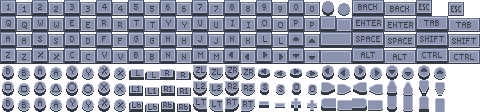
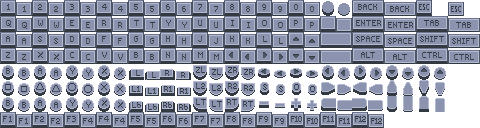
(Adventure) Exit To World Map
(Adventure Mode)
Added a HUD button to any city / dungeon view which pops up a dialog to exit the map. Initially bound to F4 / L2.

Button is visible on Desktop Landscape mode above Deck button in space vacated by Life / Mana / Gold which do not display in these settings.

Button is "present" on other layouts, but hidden off screen, with final positioning left to those who better know how to test and balance those layouts. Keyboard bindings are still functional in these views.

New sprites added for F1-12 and "Exit" button.

diff --git a/forge-gui-mobile/src/forge/adventure/stage/GameHUD.java b/forge-gui-mobile/src/forge/adventure/stage/GameHUD.java
@@ -11,23 +11,24 @@ import com.badlogic.gdx.scenes.scene2d.InputEvent;
 import com.badlogic.gdx.scenes.scene2d.Stage;
 import com.badlogic.gdx.scenes.scene2d.actions.Actions;
 import com.badlogic.gdx.scenes.scene2d.ui.Button;
+import com.badlogic.gdx.scenes.scene2d.ui.Dialog;
 import com.badlogic.gdx.scenes.scene2d.ui.Image;
 import com.badlogic.gdx.scenes.scene2d.ui.Touchpad;
 import com.badlogic.gdx.scenes.scene2d.utils.ActorGestureListener;
 import com.badlogic.gdx.scenes.scene2d.utils.ChangeListener;
 import com.badlogic.gdx.scenes.scene2d.utils.TextureRegionDrawable;
+import com.badlogic.gdx.utils.Array;
 import com.badlogic.gdx.utils.Scaling;
 import com.badlogic.gdx.utils.Timer;
 import com.badlogic.gdx.utils.viewport.ScalingViewport;
 import com.github.tommyettinger.textra.TextraButton;
 import com.github.tommyettinger.textra.TextraLabel;
+import com.github.tommyettinger.textra.TypingAdapter;
+import com.github.tommyettinger.textra.TypingLabel;
 import forge.Forge;
 import forge.adventure.player.AdventurePlayer;
 import forge.adventure.scene.*;
-import forge.adventure.util.Config;
-import forge.adventure.util.Controls;
-import forge.adventure.util.Current;
-import forge.adventure.util.UIActor;
+import forge.adventure.util.*;
 import forge.adventure.world.WorldSave;
 import forge.deck.Deck;
 import forge.gui.FThreads;
@@ -53,6 +54,7 @@ public class GameHUD extends Stage {
     private final TextraButton menuActor;
     private final TextraButton statsActor;
     private final TextraButton inventoryActor;
+    private final TextraButton exitToWorldMapActor;
     public final UIActor ui;
     private final Touchpad touchpad;
     private final Console console;
@@ -60,6 +62,11 @@ public class GameHUD extends Stage {
     boolean isHiding = false, isShowing = false;
     float opacity = 1f;
     private boolean debugMap;
+
+    private final Dialog dialog;
+    private boolean dialogOnlyInput;
+    private final Array<TextraButton> dialogButtonMap = new Array<>();
+    TextraButton selectedKey;
 
     private GameHUD(GameStage gameStage) {
         super(new ScalingViewport(Scaling.stretch, Scene.getIntendedWidth(), Scene.getIntendedHeight()), gameStage.getBatch());
@@ -69,6 +76,7 @@ public class GameHUD extends Stage {
         ui = new UIActor(Config.instance().getFile(GuiBase.isAndroid()
                 ? Forge.isLandscapeMode() ? "ui/hud_landscape.json" : "ui/hud_portrait.json"
                 : Forge.isLandscapeMode() ? "ui/hud.json" : "ui/hud_portrait.json"));
+
 
         blank = ui.findActor("blank");
         miniMap = ui.findActor("map");
@@ -83,6 +91,8 @@ public class GameHUD extends Stage {
         statsActor = ui.findActor("statistic");
         inventoryActor = ui.findActor("inventory");
         gamehud = ui.findActor("gamehud");
+        exitToWorldMapActor = ui.findActor("exittoworldmap");
+        dialog = Controls.newDialog("");
 
         miniMapPlayer = new Image(new Texture(Config.instance().getFile("ui/minimap_player.png")));
         //create touchpad
@@ -108,6 +118,7 @@ public class GameHUD extends Stage {
         ui.onButtonPress("inventory", () -> openInventory());
         ui.onButtonPress("statistic", () -> statistic());
         ui.onButtonPress("deck", () -> openDeck());
+        ui.onButtonPress("exittoworldmap", () -> exitToWorldMap());
         lifePoints = ui.findActor("lifePoints");
         mana = ui.findActor("mana");
         money = ui.findActor("money");
@@ -208,6 +219,7 @@ public class GameHUD extends Stage {
                     && !(Controls.actorContainsVector(openMapActor, touch)) //not inside openmap button
                     && !(Controls.actorContainsVector(statsActor, touch)) //not inside stats button
                     && !(Controls.actorContainsVector(inventoryActor, touch)) //not inside inventory button
+                    && !(Controls.actorContainsVector(exitToWorldMapActor, touch)) //not inside deck button
                     && (Controls.actorContainsVector(ui, touch)) //inside display bounds
                     && pointer < 1) { //not more than 1 pointer
                 touchpad.setBounds(touch.x - TOUCHPAD_SCALE / 2, touch.y - TOUCHPAD_SCALE / 2, TOUCHPAD_SCALE, TOUCHPAD_SCALE);
@@ -278,6 +290,39 @@ public class GameHUD extends Stage {
         Forge.switchScene(InventoryScene.instance());
     }
 
+    private void exitToWorldMap(){
+        dialog.getButtonTable().clear();
+        dialog.getContentTable().clear();
+        TextraButton YES = Controls.newTextButton("YES", this::exitDungeonCallback);
+        YES.setVisible(false);
+        TextraButton NO = Controls.newTextButton("NO", this::hideDialog);
+        NO.setVisible(false);
+        TypingLabel L = Controls.newTypingLabel("Exit to the World Map?");
+        L.setWrap(true);
+        L.setTypingListener(new TypingAdapter() {
+            @Override
+            public void end() {
+                YES.setVisible(true);
+                NO.setVisible(true);
+            }
+        });
+
+        dialog.getButtonTable().add(YES).width(60f);
+        dialog.getButtonTable().add(NO).width(60f);
+        dialog.getContentTable().add(L).width(120f);
+        dialog.setKeepWithinStage(true);
+        showDialog();
+
+    }
+    private void exitDungeonCallback(){
+        hideDialog();
+        Forge.switchScene(GameScene.instance());
+        WorldStage.getInstance().getPlayerSprite().setMovementDirection(Vector2.Zero);
+        MapStage.getInstance().getPlayerSprite().setMovementDirection(Vector2.Zero);
+
+        gameStage.getPlayerSprite().stop();
+    }
+
     private void menu() {
         gameStage.openMenu();
     }
@@ -306,12 +351,14 @@ public class GameHUD extends Stage {
         setVisibility(mana, visible);
         setVisibility(money, visible);
         setVisibility(blank, visible);
+        setVisibility(exitToWorldMapActor, !visible); //hide when not in a dungeon
         setAlpha(avatarborder, visible);
         setAlpha(avatar, visible);
         setAlpha(deckActor, visible);
         setAlpha(menuActor, visible);
         setAlpha(statsActor, visible);
         setAlpha(inventoryActor, visible);
+        setAlpha(exitToWorldMapActor, visible);
         opacity = visible ? 1f : 0.4f;
     }
 
@@ -323,6 +370,9 @@ public class GameHUD extends Stage {
 
     @Override
     public boolean keyDown(int keycode) {
+        if (dialogOnlyInput) {
+            return dialogInput(keycode);
+        }
         ui.pressDown(keycode);
         if (keycode == Input.Keys.F9 || keycode == Input.Keys.F10) {
             console.toggle();
@@ -347,6 +397,21 @@ public class GameHUD extends Stage {
         return super.keyDown(keycode);
     }
 
+    public boolean dialogInput(int keycode) {
+        if (dialogOnlyInput) {
+            if (KeyBinding.Up.isPressed(keycode)) {
+                selectPreviousDialogButton();
+            }
+            if (KeyBinding.Down.isPressed(keycode)) {
+                selectNextDialogButton();
+            }
+            if (KeyBinding.Use.isPressed(keycode)) {
+                performTouch(this.getKeyboardFocus());
+            }
+        }
+        return true;
+    }
+
     public void performTouch(Actor actor) {
         if (actor == null)
             return;
@@ -369,6 +434,7 @@ public class GameHUD extends Stage {
         inventoryActor.addAction(Actions.sequence(Actions.fadeOut(0.15f), Actions.hide(), Actions.moveTo(inventoryActor.getX() + inventoryActor.getWidth(), inventoryActor.getY())));
         statsActor.addAction(Actions.sequence(Actions.fadeOut(0.20f), Actions.hide(), Actions.moveTo(statsActor.getX() + statsActor.getWidth(), statsActor.getY())));
         menuActor.addAction(Actions.sequence(Actions.fadeOut(0.25f), Actions.hide(), Actions.moveTo(menuActor.getX() + menuActor.getWidth(), menuActor.getY())));
+        exitToWorldMapActor.addAction(Actions.sequence(Actions.fadeOut(0.2f), Actions.hide(), Actions.moveTo(exitToWorldMapActor.getX() + exitToWorldMapActor.getWidth(), exitToWorldMapActor.getY())));
         FThreads.delayInEDT(300, () -> isHiding = false);
     }
 
@@ -384,11 +450,66 @@ public class GameHUD extends Stage {
         statsActor.addAction(Actions.sequence(Actions.delay(0.15f), Actions.parallel(Actions.show(), Actions.alpha(opacity, 0.1f), Actions.moveTo(referenceX, statsActor.getY(), 0.25f))));
         inventoryActor.addAction(Actions.sequence(Actions.delay(0.2f), Actions.parallel(Actions.show(), Actions.alpha(opacity, 0.1f), Actions.moveTo(referenceX, inventoryActor.getY(), 0.25f))));
         deckActor.addAction(Actions.sequence(Actions.delay(0.25f), Actions.parallel(Actions.show(), Actions.alpha(opacity, 0.1f), Actions.moveTo(referenceX, deckActor.getY(), 0.25f))));
+        exitToWorldMapActor.addAction(Actions.sequence(Actions.delay(0.25f), Actions.parallel(Actions.show(), Actions.alpha(opacity, 0.1f), Actions.moveTo(referenceX, exitToWorldMapActor.getY(), 0.25f))));
         FThreads.delayInEDT(300, () -> isShowing = false);
     }
 
     public void setDebug(boolean b) {
         debugMap = b;
+    }
+
+    public void showDialog() {
+
+        dialogButtonMap.clear();
+        for (int i = 0; i < dialog.getButtonTable().getCells().size; i++) {
+            dialogButtonMap.add((TextraButton) dialog.getButtonTable().getCells().get(i).getActor());
+        }
+        dialog.show(this, Actions.show());
+        dialog.setPosition((this.getWidth() - dialog.getWidth()) / 2, (this.getHeight() - dialog.getHeight()) / 2);
+        dialogOnlyInput = true;
+        if (Forge.hasGamepad() && !dialogButtonMap.isEmpty())
+            this.setKeyboardFocus(dialogButtonMap.first());
+    }
+
+    public void hideDialog() {
+        dialog.hide(Actions.sequence(Actions.sizeTo(dialog.getOriginX(), dialog.getOriginY(), 0.3f), Actions.hide()));
+        dialogOnlyInput = false;
+        selectedKey = null;
+    }
+
+    private void selectNextDialogButton() {
+        if (dialogButtonMap.size < 2)
+            return;
+        if (!(this.getKeyboardFocus() instanceof Button)) {
+            this.setKeyboardFocus(dialogButtonMap.first());
+            return;
+        }
+        for (int i = 0; i < dialogButtonMap.size; i++) {
+            if (this.getKeyboardFocus() == dialogButtonMap.get(i)) {
+                i += 1;
+                i %= dialogButtonMap.size;
+                this.setKeyboardFocus(dialogButtonMap.get(i));
+                return;
+            }
+        }
+    }
+
+    private void selectPreviousDialogButton() {
+        if (dialogButtonMap.size < 2)
+            return;
+        if (!(this.getKeyboardFocus() instanceof Button)) {
+            this.setKeyboardFocus(dialogButtonMap.first());
+            return;
+        }
+        for (int i = 0; i < dialogButtonMap.size; i++) {
+            if (this.getKeyboardFocus() == dialogButtonMap.get(i)) {
+                i -= 1;
+                if (i < 0)
+                    i = dialogButtonMap.size - 1;
+                this.setKeyboardFocus(dialogButtonMap.get(i));
+                return;
+            }
+        }
     }
 
     class ConsoleToggleListener extends ActorGestureListener {
@@ -410,5 +531,7 @@ public class GameHUD extends Stage {
             if (count > 1)
                 showButtons();
         }
+
+
     }
 }

diff --git a/forge-gui-mobile/src/forge/adventure/util/KeyBinding.java b/forge-gui-mobile/src/forge/adventure/util/KeyBinding.java
@@ -17,6 +17,7 @@ public enum KeyBinding {
     Deck("Deck", Input.Keys.E,Input.Keys.BUTTON_A),
     Map("Map", Input.Keys.M,Input.Keys.BUTTON_SELECT),
     Equip("Equip", Input.Keys.E,Input.Keys.BUTTON_X),
+    ExitToWorldMap("ExitToWorldMap", Input.Keys.F4,Input.Keys.BUTTON_L2),
     Use("Use", Input.Keys.ENTER,Input.Keys.BUTTON_A),
     Back("Back", Input.Keys.ESCAPE,Input.Keys.BUTTON_B),
     ScrollUp("ScrollUp", Input.Keys.PAGE_UP,Input.Keys.BUTTON_L1),

diff --git a/forge-gui-mobile/src/forge/adventure/stage/WorldStage.java b/forge-gui-mobile/src/forge/adventure/stage/WorldStage.java
@@ -181,6 +181,7 @@ public class WorldStage extends GameStage implements SaveFileContent {
                         continue;
                     }
                      TileMapScene.instance().load(point.getPointOfInterest());
+                    stop();
                     Forge.switchScene(TileMapScene.instance());
                 } else {
                     if (point == collidingPoint) {
